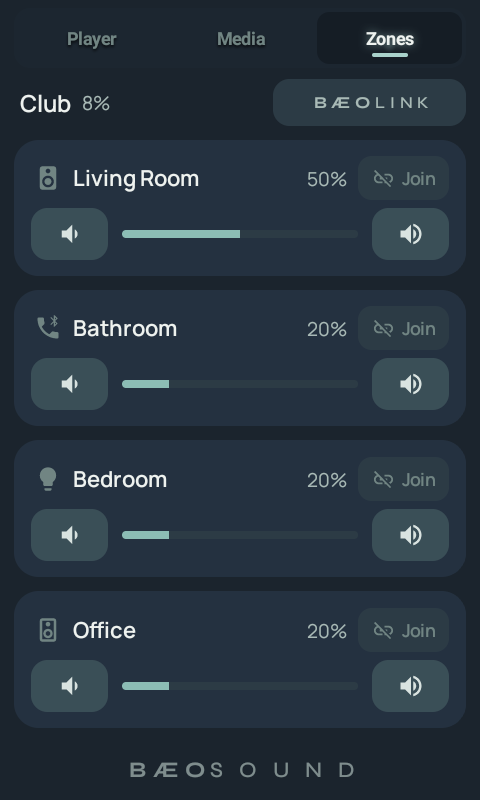
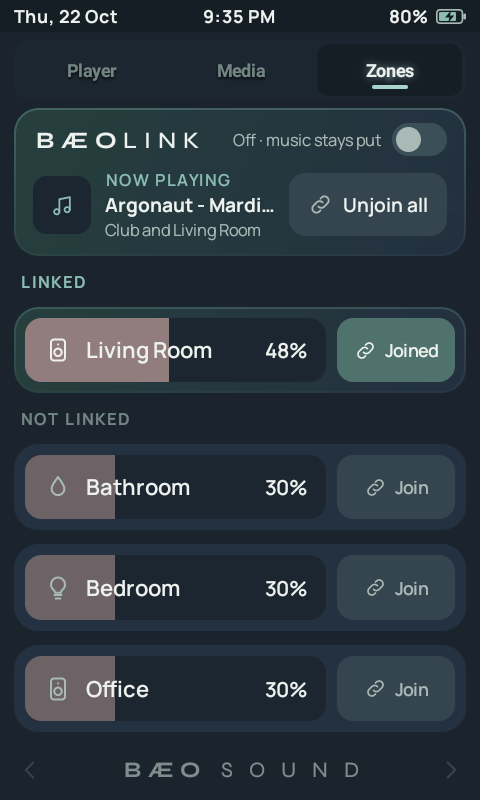
README: fresh screenshots of v1.4.5 from the remote, queue sheet added

diff --git a/README.md b/README.md
@@ -15,8 +15,8 @@ It talks directly to Home Assistant over the standard WebSocket API, renders cus
 The app is built around four primary pages, reachable with dedicated physical shortcut buttons (`CURTAIN`, `LIGHT`, `SCENE`, `AC`) and anchored by the signature fixed-width **BÆO** wordmark footer:
 
 1. **BÆOVISION (`TV`):** What's on the TV, with **Search, Movies, TV and MTV** tiles inside the card that open your Plex server (search as you type, or full poster libraries with sort and watched ticks), a corner button that puts the TV's sound on the Sonos, and Plex shelves (*On Deck*, *Recently Released*…) where one tap wakes the TV, switches it to the Google TV and starts that exact episode or film.
-2. **BÆOREMOTE (`Main`):** Weather, next alarm and event, the **Door** lock beside an **Auto lights** switch (pauses every motion and presence light automation so lights are manual only), labelled scene pills, and a live floorplan with tappable lights, the robot vacuum and radar presence dots.
-3. **BÆOSOUND (`Media`):** The Club Sonos with uncropped album art over a blurred wash, four mix shortcuts (GAYFM, Glitterbox…), a **Search music** bar across everything in Music Assistant (library and Spotify), Music Assistant shelves, and the Zones tab for joining rooms and BÆOLINK.
+2. **BÆOREMOTE (`Main`):** Weather, next alarm and event, a **Motion Lights** switch (pauses every motion and presence light automation so lights are manual only), a **mirror ball** that spins while it's on, the **Door** lock, labelled scene pills, and a live floorplan: each light drawn as its fixture (lamp, LED bar, artwork, candles…), TVs that glow while they're on, the robot vacuum and radar presence dots.
+3. **BÆOSOUND (`Media`):** A **Search music** bar, the Club Sonos with its cover over a blurred wash, a volume fader and the queue, four mix shortcuts (GAYFM, Glitterbox…), search across everything in Music Assistant (library and Spotify), Music Assistant shelves, and the Zones tab for joining rooms and BÆOLINK.
 4. **BÆOLIVING (`Climate`):** Air conditioning temperature steppers with target readouts, HVAC/fan modes, and motorized blind controls.
 
 ---
@@ -25,11 +25,12 @@ The app is built around four primary pages, reachable with dedicated physical sh
 
 The media dashboard features three dedicated tabs tailored for single-touch music management:
 
-| Player (Now Playing) | Media (Shelves & Playlists) | Zones (BÆOLINK Multi-Room) |
-|---|---|---|
-| ![Sonos Player](screenshots/media-page.png) | ![Sonos Media](screenshots/sonos-media.png) | ![Sonos Zones](screenshots/sonos-group.png) |
+| Player (Now Playing) | Queue | Media (Shelves & Playlists) | Zones (BÆOLINK Multi-Room) |
+|---|---|---|---|
+| ![Sonos Player](screenshots/media-page.png) | ![Queue](screenshots/queue.png) | ![Sonos Media](screenshots/sonos-media.png) | ![Sonos Zones](screenshots/sonos-group.png) |
 
-* **Player:** The whole cover (never cropped) over a blurred wash, transport controls, volume steppers, four one-touch mixes, and the Search music bar.
+* **Player:** The Search music bar on top, then the cover over a blurred wash, transport controls, a volume fader with mute, and four one-touch mixes.
+* **Queue:** Now playing and up next from Music Assistant; when the Sonos is playing something Music Assistant didn't start (a favourite, the radio), its own track.
 * **Media:** Music Assistant shelves: random albums from the local collection (Spotify's saved albums are kept out), favourite songs and playlists.
 * **Zones:** Join or drop each room's speaker with its own volume; the **BÆOLINK** switch makes the music follow you from room to room.
 
